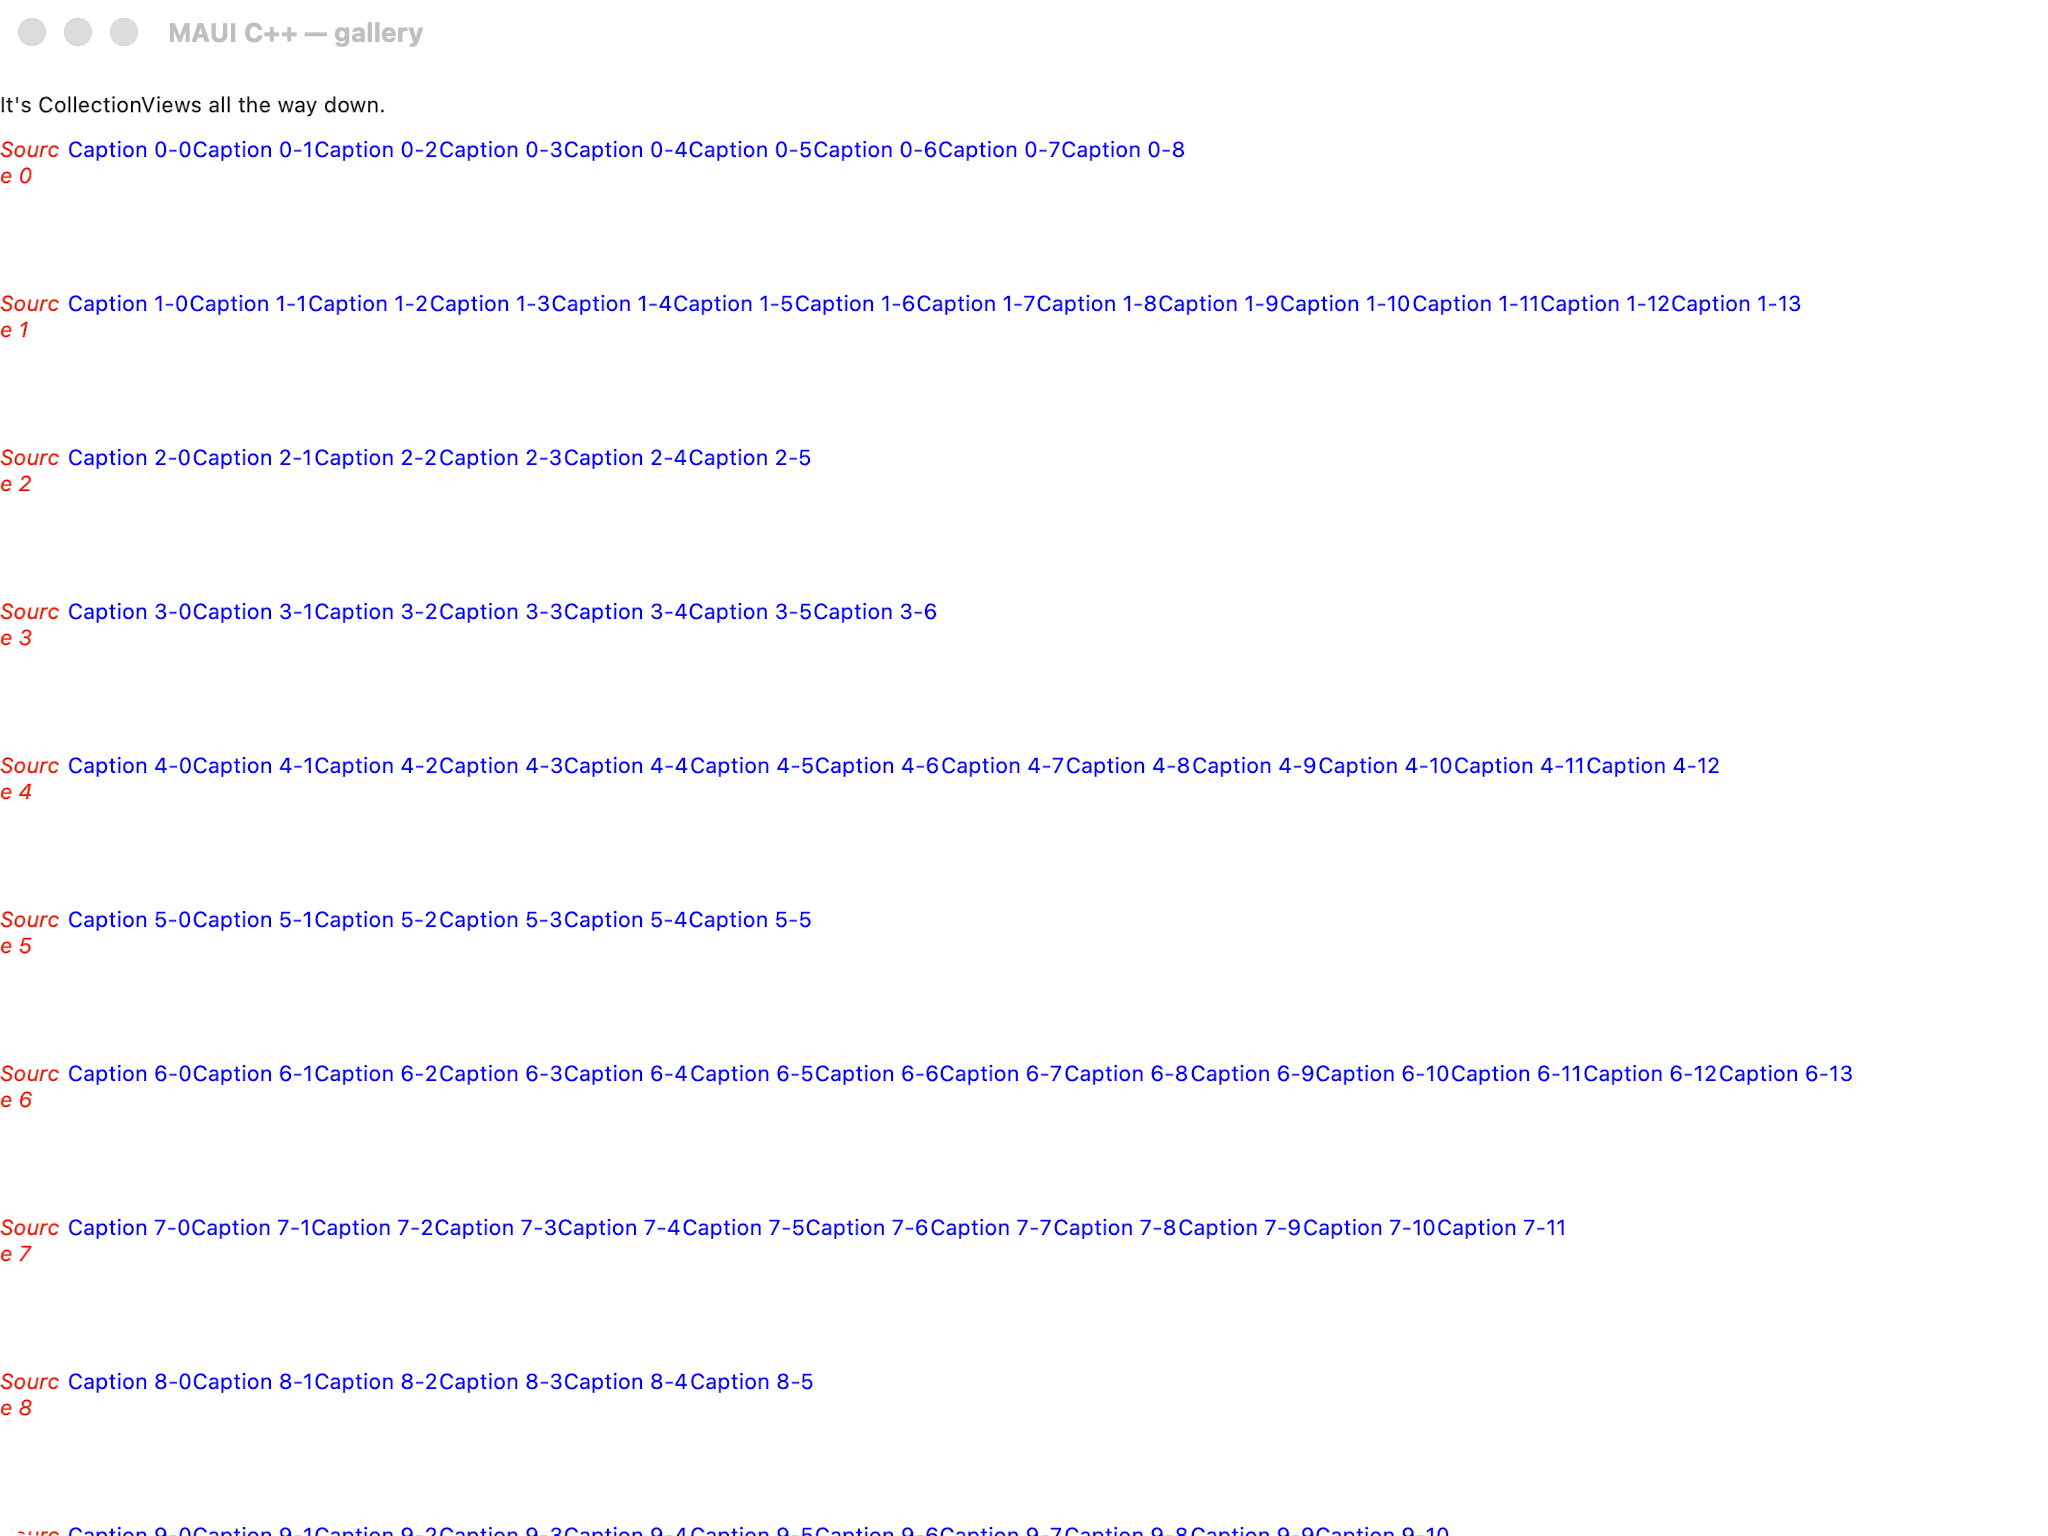
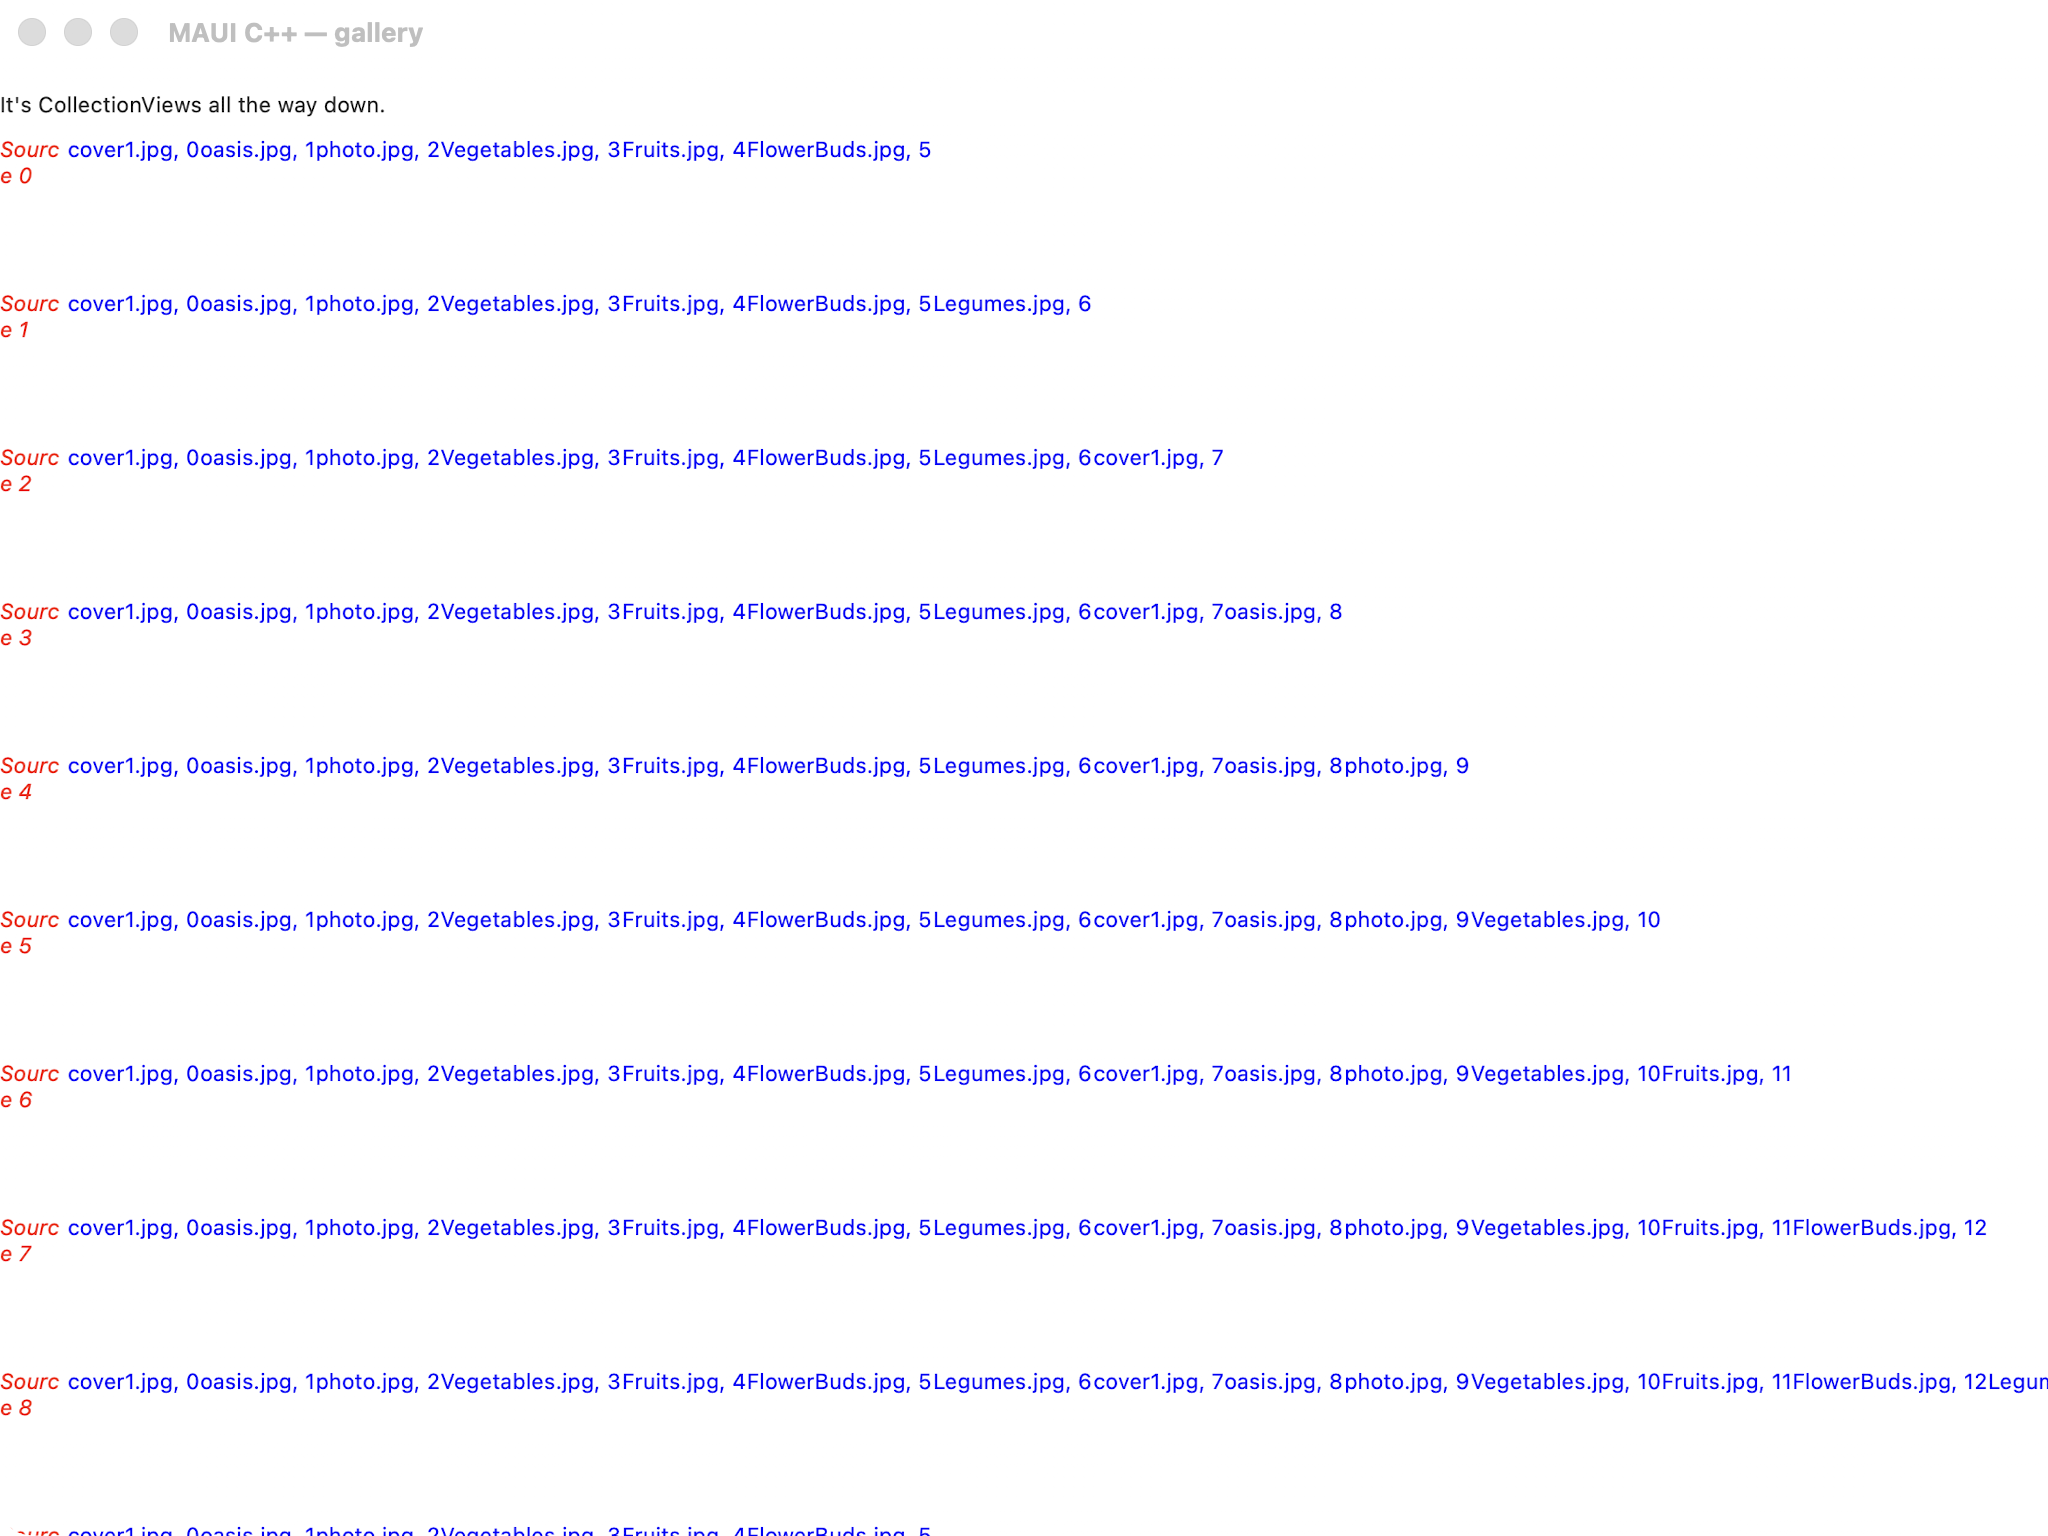
fix(nested_collection): match MAUI inner-caption data + counts; green maccatalyst (152)
The cpp builder seeded inner captions as 'Caption N-M' with random per-source counts,
but the MauiReference twin (NestedCollectionModel.cs) uses deterministic count=6+(n%9)
and captions '{image}, {k}' cycling Images[k%7] (cover1.jpg/oasis.jpg/photo.jpg/
Vegetables.jpg/Fruits.jpg/FlowerBuds.jpg/Legumes.jpg). Replaced the RNG with that exact
pattern -> cpp inner lists now match MAUI byte-for-byte (verified). maccatalyst 151->152.

(xaml column stays red: the compile-time XAML app can't run the C# code-behind data
wiring, so its nested CVs render empty — a known xaml-column limitation, not a cpp bug.
iOS nested_collection stays yellow: a separate red-title column-width wrap issue.)

diff --git a/port/cpp/examples/gallery/pages/nested_collection_page.hpp b/port/cpp/examples/gallery/pages/nested_collection_page.hpp
@@ -48,7 +48,6 @@
 //       cells flow in a horizontal row as in MAUI.
 
 #include <memory>
-#include <random>
 #include <string>
 #include <vector>
 
@@ -200,17 +199,19 @@ namespace maui::samples
         // seeded-RNG convention so the per-source counts are reproducible).
         [[nodiscard]] std::vector<nested_source> build_sources()
         {
+            // DemoFilteredItemSource images (NestedCollectionModel.cs Images[]) cycled by item index.
+            static constexpr const char* images[] = {"cover1.jpg", "oasis.jpg",      "photo.jpg",  "Vegetables.jpg",
+                                                     "Fruits.jpg", "FlowerBuds.jpg", "Legumes.jpg"};
             std::vector<nested_source> sources;
-            std::mt19937 rng(20240619); // fixed seed (DemoFilteredItemSource's Random, made deterministic)
-            std::uniform_int_distribution<int> count_dist(6, 14); // C# Random.Next(6, 15) → [6,14]
             for (int n = 0; n < 20; ++n)
             {
-                const int count = count_dist(rng);
+                const int count = 6 + (n % 9); // NestedCollectionViewModel: deterministic 6..14 by source index
                 std::vector<gallery_item> inner;
                 inner.reserve(static_cast<std::size_t>(count));
                 for (int k = 0; k < count; ++k)
                 {
-                    inner.push_back(gallery_item{"Caption " + std::to_string(n) + "-" + std::to_string(k)});
+                    // caption "{image}, {k}" (NestedItemSource ctor: Images[k % 7] + ", " + k)
+                    inner.push_back(gallery_item{std::string(images[k % 7]) + ", " + std::to_string(k)});
                 }
                 auto inner_collection =
                     std::make_shared<maui::core::observable_collection<gallery_item>>(std::move(inner));

diff --git a/port/cpp/docs/comparison/README.md b/port/cpp/docs/comparison/README.md
@@ -3687,8 +3687,8 @@ _Not yet computed — no automated pixel-diff score is recorded for this page ye
 
 | Classification | Sonnet 5 | Gemini |
 | --- | --- | --- |
-| 🟢 Match | 151 | 0 |
-| 🟡 Minor | 24 | 0 |
+| 🟢 Match | 152 | 0 |
+| 🟡 Minor | 23 | 0 |
 | 🔴 Major | 1 | 0 |
 | ⬛ Blank | 7 | 0 |
 | ⏳ Unreviewed | 12 | 195 |
@@ -6085,16 +6085,16 @@ _Not yet reviewed._
 
 _Not yet computed — no automated pixel-diff score is recorded for this page yet._
 
-### 129. Nested Collection — 🟡/⏳
+### 129. Nested Collection — 🟢/⏳
 <sub>nested_collection</sub>
 
 <table><tr><th></th><th>MAUI</th><th>C++</th><th>C++ &amp; XAML</th><th>AppKit / C++</th><th>AppKit / C++ &amp; XAML</th></tr><tr><th>Light</th><td><img width="300px" src="../../../maui-reference/captures/maccatalyst/nested_collection_light.png" /></td><td><img width="300px" src="captures/maccatalyst/cpp/nested_collection_light.png" /></td><td><img width="300px" src="captures/maccatalyst/xaml/nested_collection_light.png" /></td><td><img width="300px" src="captures/maccatalyst/appkit_cpp/nested_collection_light.png" /></td><td><img width="300px" src="captures/maccatalyst/appkit_xaml/nested_collection_light.png" /></td></tr><tr><th>Dark</th><td><img width="300px" src="../../../maui-reference/captures/maccatalyst/nested_collection_dark.png" /></td><td><img width="300px" src="captures/maccatalyst/cpp/nested_collection_dark.png" /></td><td><img width="300px" src="captures/maccatalyst/xaml/nested_collection_dark.png" /></td><td><img width="300px" src="captures/maccatalyst/appkit_cpp/nested_collection_dark.png" /></td><td><img width="300px" src="captures/maccatalyst/appkit_xaml/nested_collection_dark.png" /></td></tr></table>
 
 ports NestedGalleries/NestedCollectionViewGallery.xaml (+ NestedCollectionViewGallery.xaml.cs) of the C# CollectionView gallery
 
-#### 🟡 Sonnet 5 Review
+#### 🟢 Sonnet 5 Review
 
-Nested CollectionView structure matches MAUI (outer source rows each hosting an inner horizontal list), but the cpp builder twin's inner item labels read 'Caption N-M' whereas MAUI's read image filenames ('cover1.jpg, 0' ...) — a builder-twin sample-data mismatch, not a layout defect. Prior red was stale (MAUI ref showed only the header at review time).
+Nested CollectionView content now matches MAUI in both themes: the inner captions read the DemoFilteredItemSource pattern '{image}, {k}' (cover1.jpg/oasis.jpg/photo.jpg/Vegetables.jpg/Fruits.jpg/FlowerBuds.jpg/Legumes.jpg cycled by index) with per-source counts 6+(n%9) — was 'Caption N-M' with random counts (builder-data drift vs NestedCollectionModel.cs). Outer source rows, red-italic 'Source N' headers, and the blue horizontal caption lists all align; the pixel% is inflated by the exempt harness inset (dense text shifts) + a minor red-title wrap nuance. (xaml column stays RED — the compile-time XAML app can't run the C# code-behind data wiring, so its nested CVs are empty; a known xaml-column limitation, not a cpp issue.)
 
 #### ⏳ Gemini Review
 
